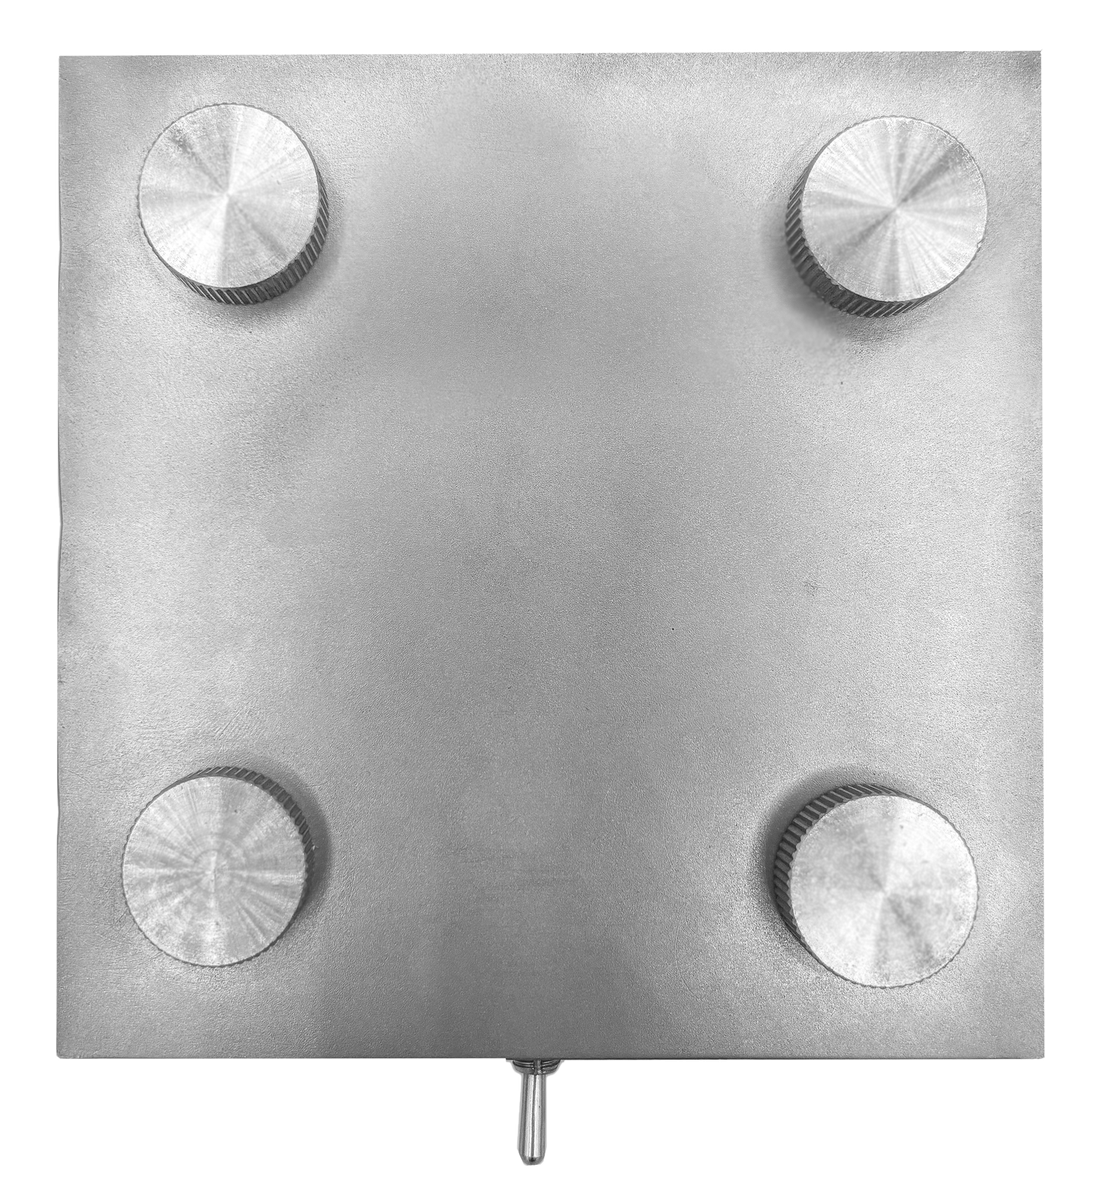
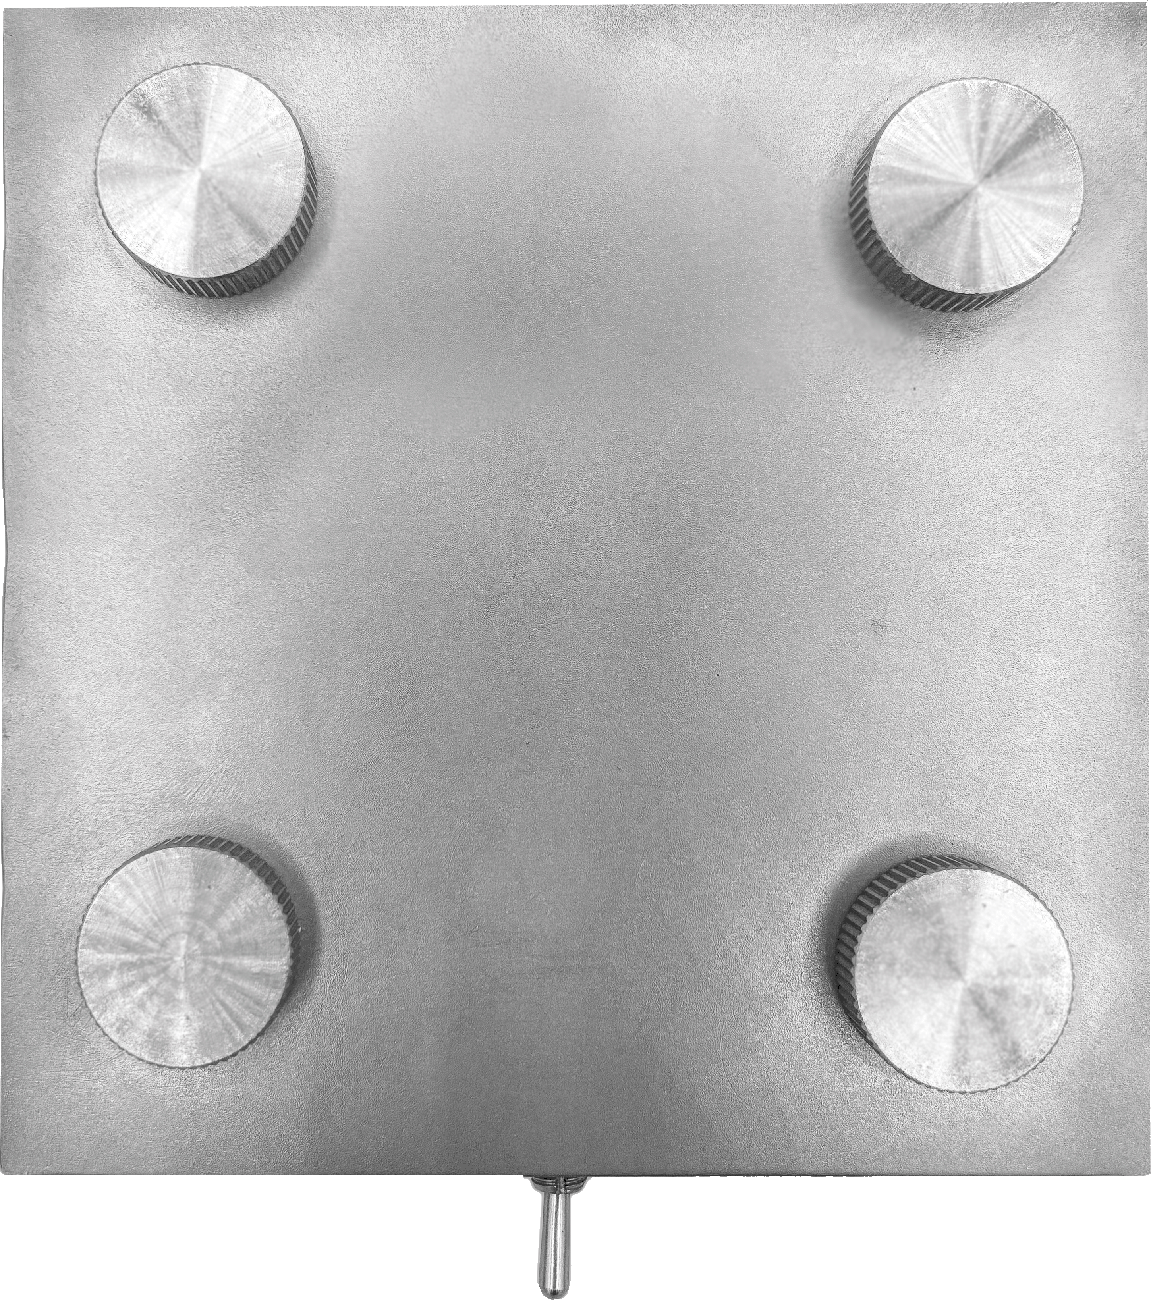
Exploration: use only edited images + your pre-cut transparent halves
- Laser-cutting photo now uses the edited (Lightroom) version (Creation
  Process/Edited/IMG_5968) instead of the old unedited one.
- Split section now uses the two transparent half-PNGs you added to Metal
  Lamp/Edited (left half pinned to the left edge, right to the right, aligned by
  height) instead of CSS-splitting one image. Full transparent cutout used on
  mobile + in the lightbox.
- All exploration photos now come from the "Edited" folders.

diff --git a/src/styles/global.css b/src/styles/global.css
@@ -717,11 +717,10 @@ html.reduce-motion *::after {
 .proj-media--a4 { flex: 0 0 36%; }           /* A4 keeps its page edge + aspect */
 .proj-text { flex: 1 1 44%; }
 
-/* Split image: ONE (transparent) cut-out shown as its left + right halves at the
-   two page edges, text centred between. Each half is the full image at 200% of
-   the half's width with overflow hidden, so the left half shows the image's left
-   50% and the right half (shifted left by one half-width) shows its right 50% —
-   a true split, not the same image twice. */
+/* Split image: the two pre-cut transparent halves of the cutout, pinned to the
+   page edges with the text centred between them (each named for the side it goes
+   on). Both shown at the same height so they read as one lamp split down the
+   middle. .proj-split-full is the whole cutout, shown only on mobile. */
 .proj-split {
   clear: both;
   display: flex;
@@ -730,10 +729,16 @@ html.reduce-motion *::after {
   margin: var(--gap-lg) calc(-1 * var(--grid-pad));
   width: calc(100% + 2 * var(--grid-pad));
 }
-.proj-split-half { flex: 1 1 0; overflow: hidden; min-width: 0; }
-.proj-split-half img { display: block; width: 200%; height: auto; max-width: none; margin: 0; cursor: zoom-in; }
-.proj-split-half--r img { margin-left: -100%; } /* show the right 50% */
-.proj-split .proj-text { flex: 1 1 34%; align-self: center; }
+.proj-split .proj-split-img {
+  flex: 0 0 auto;
+  height: clamp(300px, 40vw, 560px);
+  width: auto;
+  max-width: none;
+  margin: 0;
+  cursor: zoom-in;
+}
+.proj-split .proj-text { flex: 1 1 auto; align-self: center; }
+.proj-split .proj-split-full { display: none; }
 
 /* Poster row: natural aspect ratios, equal widths, top-aligned — so the two
    square posters and the taller A4 poster sit correctly (not all cropped square). */
@@ -772,11 +777,10 @@ html.reduce-motion *::after {
   .proj-row, .proj-row--rev { flex-direction: column; align-items: stretch; gap: var(--gap-sm); }
   .proj-media--a4 { flex: 1 1 auto; }
   .proj-aside, .proj-aside--r { max-width: 100%; margin-left: 0; }
-  /* stacked: show the cutout once (full), drop the duplicate right half */
+  /* stacked: hide the two edge-halves, show the full cutout once */
   .proj-split { flex-direction: column; }
-  .proj-split-half { overflow: visible; }
-  .proj-split-half img { width: 100%; margin-left: 0; }
-  .proj-split-half--r { display: none; }
+  .proj-split .proj-split-img { display: none; }
+  .proj-split-full { display: block; height: auto; width: 72%; max-width: 72%; margin: 0 auto; }
   .proj-posters { flex-direction: column; align-items: stretch; }
 }
 

diff --git a/src/content/projects/exploration.md b/src/content/projects/exploration.md
@@ -43,15 +43,16 @@ With the simple geometric forms, any inaccuracies were amplified, and so I decid
 
 <section class="proj-row proj-row--rev">
   <figure class="proj-media">
-    <img loading="lazy" decoding="async" src="/images/exploration/metal-construction.jpg" alt="Welding the stainless steel" />
+    <img loading="lazy" decoding="async" src="/images/exploration/laser-cutting.jpg" alt="Laser-cutting the stainless steel" />
   </figure>
   <div class="proj-text">An initial prototype testing out the feasibility as well as the attractiveness of stainless steel. The strip was manually drilled with no jig hence any misalignment. All metals, woods, and acrylics used in this project were laser cut, allowing for high accuracy between layers and consistency among units.</div>
 </section>
 
 <section class="proj-split">
-  <div class="proj-split-half"><img loading="lazy" decoding="async" class="proj-split-img" src="/images/exploration/lamp-metal-cutout.png" alt="" /></div>
+  <img loading="lazy" decoding="async" class="proj-split-img" src="/images/exploration/lamp-split-left.png" alt="" />
   <div class="proj-text">A large part of this project was working around costings. For this, I learnt how to use Microsoft Excel, creating a large spreadsheet capable of taking word material inputs at “stainless steel” and outputting a calculated price using a lookup table. The spreadsheet also took into account the variations in labour costs for each combination of materials.</div>
-  <div class="proj-split-half proj-split-half--r"><img loading="lazy" decoding="async" class="proj-split-img" src="/images/exploration/lamp-metal-cutout.png" alt="The stainless steel lamp, cut out" /></div>
+  <img loading="lazy" decoding="async" class="proj-split-img" src="/images/exploration/lamp-split-right.png" alt="The stainless steel lamp, cut out" />
+  <img loading="lazy" decoding="async" class="proj-split-full" src="/images/exploration/lamp-metal-cutout.png" alt="The stainless steel lamp, cut out" />
 </section>
 
 <section class="proj-row proj-row--rev">